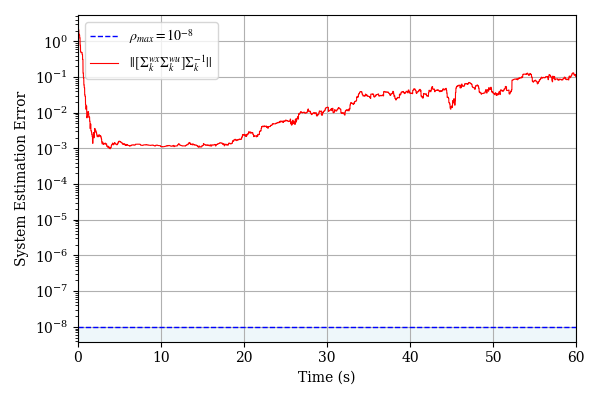
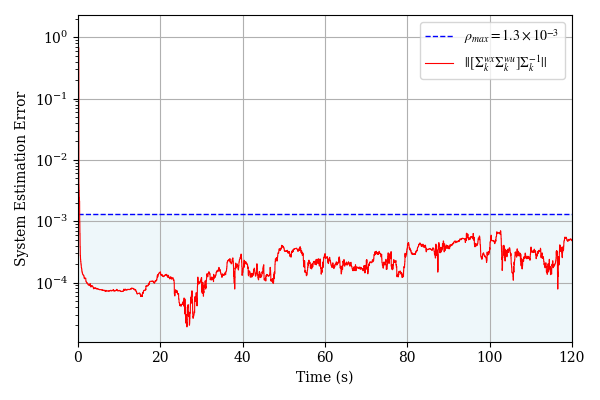
used simplified system instead

diff --git a/visualiser.py b/visualiser.py
@@ -1,5 +1,5 @@
 import numpy as np
-import tikzplotlib
+# import tikzplotlib
 import matplotlib.pyplot as plt
 
 # Written by Claude Sonnet 4.5 with minimal edits.
@@ -16,29 +16,63 @@ class Visualizer:
     A class for visualizing control system trajectories.
     Matches the original plotting style exactly.
     """
-    
-    def __init__(self, h_sim: float, T_total: float):
+
+    def __init__(self, h_sim: float, T_total: float, system=None):
         """
         Initialize the Visualizer.
-        
+
         Args:
             h_sim: Simulation time step
             T_total: Total simulation time
+            system: System object (CartPole or SimpleSystem) for context-aware plotting
         """
         self.h_sim = h_sim
         self.T_total = T_total
+        self.system = system
         setup_plot_style()
 
+    def _get_state_labels(self, n_states):
+        """
+        Returns appropriate state labels based on system type.
+
+        Args:
+            n_states: Number of states in the system
+
+        Returns:
+            List of state labels
+        """
+        if self.system is not None:
+            # Check if it's CartPole (has 4 states)
+            if hasattr(self.system, '__class__') and self.system.__class__.__name__ == 'CartPole':
+                return [
+                    r"Cart's Position (m)",
+                    r"Pole's angle (rad)",
+                    r"Cart's Velocity (m/s)",
+                    r"Pole's angular velocity (rad/s)"
+                ]
+            # Check if it's SimpleSystem (has 2 states)
+            elif hasattr(self.system, '__class__') and self.system.__class__.__name__ == 'SimpleSystem':
+                return [r"$x_1$: state 1", r"$x_2$: state 2"]
+
+        # Generic fallback for any number of states
+        return [f"$x_{i+1}$" for i in range(n_states)]
+
     def plot_state_trajectories(self, X_sim_hist, save_path='lqr_state_trajectories.png'):
-        """Plots state trajectories - matches original exactly."""
+        """Plots state trajectories - works for any system."""
         X_sim = X_sim_hist.T  # Convert to (N, n)
         t_sim = np.arange(len(X_sim)) * self.h_sim
+        n_states = X_sim.shape[1]
+
+        # Get appropriate labels based on system type
+        state_labels = self._get_state_labels(n_states)
+
+        colors = ['blue', 'red', 'green', 'orange', 'purple', 'brown']
         
         plt.figure(figsize=(6, 4))
-        plt.plot(t_sim, X_sim[:, 0], label=r"Cart's Position (m)", linewidth=0.8)
-        plt.plot(t_sim, X_sim[:, 1], label=r"Pole's angle (rad)", linewidth=0.8)
-        plt.plot(t_sim, X_sim[:, 2], label=r"Cart's Velocity (m/s)", linewidth=0.8)
-        plt.plot(t_sim, X_sim[:, 3], label=r"Pole's angular velocity (rad/s)", linewidth=0.8)
+        for i in range(n_states):
+            color = colors[i % len(colors)]
+            plt.plot(t_sim, X_sim[:, i], label=state_labels[i], linewidth=1.2, color=color)
+
         plt.ylabel('State Values')
         plt.xlabel('Time (s)')
         plt.xlim(0, self.T_total)
@@ -49,17 +83,28 @@ class Visualizer:
         print(f"State trajectories plot saved to '{save_path}'")
     
     def plot_input_trajectory(self, U_sim_hist, save_path='lqr_input_trajectory.png'):
-        """Plots input trajectory - matches original exactly."""
+        """Plots input trajectory - works for any system."""
         U_sim = U_sim_hist.T  # Convert to (N-1, m)
         m = U_sim.shape[1]
         t_sim = np.arange(len(U_sim)) * self.h_sim
-        
+
+        # Determine y-axis label based on system type
+        if self.system is not None and hasattr(self.system, '__class__'):
+            if self.system.__class__.__name__ == 'CartPole':
+                ylabel = 'Input Force (N)'
+            else:
+                ylabel = 'Control Input'
+        else:
+            ylabel = 'Control Input'
+
         plt.figure(figsize=(6, 4))
         for i in range(m):
-            plt.plot(t_sim, U_sim[:, i], label='$u$', linewidth=0.8, color='blue')
-        plt.ylabel('Input Force (N)')
+            label = f'$u_{i+1}$' if m > 1 else '$u$'
+            plt.plot(t_sim, U_sim[:, i], label=label, linewidth=1.2, color='blue')
+        plt.ylabel(ylabel)
         plt.xlabel('Time (s)')
         plt.xlim(0, self.T_total)
+        plt.legend() if m > 1 else None
         plt.grid(True)
         plt.tight_layout()
         plt.savefig(save_path)
@@ -90,7 +135,7 @@ class Visualizer:
         plt.plot(t_sim, state_norm_proposed, label='Data-driven sampled-data LQR',
                  linewidth=1.2, color='blue', alpha=0.8)
         plt.plot(t_sim, state_norm_ideal, label='Ideal LQR (Known Model)',
-                 linewidth=1.2, color='red', linestyle='--', alpha=0.8)
+                 linewidth=1.2, color='red', linestyle='--', alpha=1.0)
         plt.ylabel('State Norm')
         plt.xlabel('Time (s)')
         plt.xlim(0, self.T_total)
@@ -111,7 +156,7 @@ class Visualizer:
         plt.figure(figsize=(6, 4))
         plt.plot(t_sim_M, M_error, 
                  label=r'$|| [\Sigma^{wx}_{k}  \Sigma^{wu}_{k}]\Sigma_{k}^{-1}||$',
-                 linewidth=0.8, color='red')
+                 linewidth=1.2, color='red')
         plt.ylabel('System Estimation Error')
         plt.xlabel('Time (s)')
         plt.yscale('log')
@@ -130,14 +175,14 @@ class Visualizer:
         plt.figure(figsize=(6, 4))
 
         # Add horizontal line at rho = 1e-8 with shading below
-        rho_threshold = 1e-8
-        plt.axhline(y=rho_threshold, color='blue', linestyle='--', linewidth=1.0,
-                    label=r'$\rho_{max} = 10^{-8}$')
+        rho_threshold = 0.0025698100922393846 #0.0012996052587763633
+        plt.axhline(y=rho_threshold, color='blue', linestyle='--', linewidth=1.2,
+                    label=r'$\rho_{max} = 2.57 \times 10^{-3}$')
         plt.axhspan(plt.ylim()[0], rho_threshold, alpha=0.2, color='lightblue')
 
         plt.plot(t_sim_M, M_error,
                  label=r'$|| [\Sigma^{wx}_{k}  \Sigma^{wu}_{k}]\Sigma_{k}^{-1}||$',
-                 linewidth=0.8, color='red')
+                 linewidth=1.2, color='red')
 
         # # Find intersection point where M_error crosses rho_threshold
         # intersection_idx = np.where(M_error <= rho_threshold)[0]
@@ -147,7 +192,7 @@ class Visualizer:
         #     t_intersect = t_sim_M[idx]
 
         #     # Add vertical line at intersection
-        #     plt.axvline(x=t_intersect, color='green', linestyle=':', linewidth=1.0, alpha=0.7)
+        #     plt.axvline(x=t_intersect, color='green', linestyle=':', linewidth=1.2, alpha=0.7)
 
         #     # Add annotation
         #     plt.annotate(f't = {t_intersect:.2f}s',
@@ -177,8 +222,8 @@ class Visualizer:
 
         plt.figure(figsize=(6, 4))
         plt.plot(control_steps, times_ms, 'o-', label='Per-step time',
-                 linewidth=0.8, markersize=3, alpha=0.6)
-        plt.plot(control_steps, running_avg, 'r-', label='Running average', linewidth=1.5)
+                 linewidth=1.2, markersize=3, alpha=0.6)
+        plt.plot(control_steps, running_avg, 'r-', label='Running average', linewidth=1.2)
         plt.ylabel('Computation Time (ms)')
         plt.xlabel('Control Step')
         plt.xlim(0, len(times_ms) - 1)
@@ -270,10 +315,22 @@ class Visualizer:
 
     def plot_bound_comparison(self, bound_lhs_hist, bound_rhs_hist,
                                save_path='bound_comparison.png'):
-        
+
         bound_lhs_hist = np.array(bound_lhs_hist).flatten()
         bound_rhs_hist = np.array(bound_rhs_hist).flatten()
         t_sim = np.arange(len(bound_lhs_hist)) * self.h_sim
+
+        # Determine title based on system type
+        # if self.system is not None and hasattr(self.system, '__class__'):
+        #     system_name = self.system.__class__.__name__
+        #     if system_name == 'CartPole':
+        #         title = "Corollary 1's Inequality: Cart Pole"
+        #     elif system_name == 'SimpleSystem':
+        #         title = "Corollary 1's Inequality: Simple System"
+        #     else:
+        #         title = "Corollary 1's Inequality"
+        # else:
+        #     title = "Corollary 1's Inequality"
 
         plt.figure(figsize=(6, 4))
         plt.plot(t_sim, bound_lhs_hist, label='LHS',
@@ -286,7 +343,7 @@ class Visualizer:
         plt.yscale('log')
         plt.legend()
         plt.grid(True, alpha=0.3)
-        plt.title("Corollary 1's Inequality: Cart Pole")
+        # plt.title(title)
         plt.tight_layout()
         plt.savefig(save_path, dpi=300)
 

diff --git a/main.py b/main.py
@@ -21,8 +21,10 @@ epsilon_std = 0.1  # Exploration noise
 np.random.seed(42)
 
 # Create three separate plants for three controllers
-# plant_1 = SimpleSystem()
-plant_1 = CartPole(cart_pole_params)
+plant_1 = SimpleSystem()
+plant_2 = SimpleSystem()
+plant_3 = SimpleSystem()
+# plant_1 = CartPole(cart_pole_params)
 # plant_2 = CartPole(cart_pole_params)
 # plant_3 = CartPole(cart_pole_params)
 
@@ -37,68 +39,68 @@ Sigma_zero = 1e-4
 
 # Create controllers
 ddsd_controller = DDSDLQRController(plant_1, Wx, Wu, h_control, L, lambda_, Sigma_zero)
-# sd_controller = SDLQRController(plant_2, Wx, Wu, h_control)
-# sd_controller.compute_optimal_gain()
-# dd_controller = DDLQRController(plant_3, Wx, Wu, h_control)
+sd_controller = SDLQRController(plant_2, Wx, Wu, h_control)
+sd_controller.compute_optimal_gain()
+dd_controller = DDLQRController(plant_3, Wx, Wu, h_control)
 
 # Initial condition and simulation time
-x0 = np.array([[1.0], [0.5], [0.0], [0.0]])
-# x0 = np.array([[1.0], [0.0]])
-sim_time = 60
+# x0 = np.array([[1.0], [0.5], [0.0], [0.0]])
+x0 = np.array([[1.0], [0.0]])
+sim_time = 120
 
 # Perturbation due to unmodelled dynamics (if any)
 # Specify standard deviation for Gaussian noise (zero-mean) for each state
-w_std = np.array([[0.01], [0.01], [0.01], [0.01]])  # Standard deviation for each state component
+# w_std = np.array([[1e-10], [1e-10], [1e-10], [1e-10]])  # Standard deviation for each state component
 # w_std = np.zeros((plant_1.n, 1))
-# w_std = np.array([[0.001], [0.001]])
+w_std = np.array([[1e-4], [1e-4]])
 
 # Create simulations
 ddsd_simulation = Simulation(plant_1, ddsd_controller, x0, sim_time, h_sim, epsilon_std=epsilon_std, w_std=w_std, random_seed=42)
-# sd_simulation = Simulation(plant_2, sd_controller, x0, sim_time, h_sim, random_seed=42)
-# dd_simulation = Simulation(plant_3, dd_controller, x0, sim_time, h_sim, epsilon_std=epsilon_std, random_seed=42)
+sd_simulation = Simulation(plant_2, sd_controller, x0, sim_time, h_sim, random_seed=42)
+dd_simulation = Simulation(plant_3, dd_controller, x0, sim_time, h_sim, epsilon_std=epsilon_std, random_seed=42)
 
 # Run simulations
 print("Running Data-Driven SD-LQR simulation...")
 ddsd_states, ddsd_controls = ddsd_simulation.run()
-# print("Running SD-LQR simulation...")
-# sd_states, sd_controls = sd_simulation.run()
-# print("Running DD-LQR simulation...")
-# dd_states, dd_controls = dd_simulation.run()
-# print("Simulations complete!\n")
+print("Running SD-LQR simulation...")
+sd_states, sd_controls = sd_simulation.run()
+print("Running DD-LQR simulation...")
+dd_states, dd_controls = dd_simulation.run()
+print("Simulations complete!\n")
 
 # Create plots directory if it doesn't exist
-os.makedirs('plots', exist_ok=True)
+os.makedirs('plots/simplified', exist_ok=True)
 
-# Create visualizer
-viz = Visualizer(h_sim, sim_time)
+# Create visualizer with system information for context-aware plotting
+viz = Visualizer(h_sim, sim_time, system=plant_1)
 
 # Generate plots for DD-SDLQR
 print("Generating DD-SDLQR plots...")
-viz.plot_state_trajectories(ddsd_states, save_path='plots/dd_sdlqr_states.png')
-viz.plot_input_trajectory(ddsd_controls, save_path='plots/dd_sdlqr_input.png')
-# viz.plot_system_error(ddsd_simulation.M_error, save_path='plots/dd_sdlqr_system_error.png')
-viz.plot_rho(ddsd_simulation.M_error, save_path='plots/dd_sdlqr_rho.png')
-viz.plot_bound_comparison(ddsd_simulation.bound_lhs_hist, ddsd_simulation.bound_rhs_hist, save_path='plots/dd_sdlqr_bound_comparison.png')
+# viz.plot_state_trajectories(ddsd_states, save_path='plots/simplified/dd_sdlqr_states.png')
+# viz.plot_input_trajectory(ddsd_controls, save_path='plots/simplified/dd_sdlqr_input.png')
+# viz.plot_system_error(ddsd_simulation.M_error, save_path='plots/simplified/dd_sdlqr_system_error.png')
+# viz.plot_rho(ddsd_simulation.M_error, save_path='plots/simplified/dd_sdlqr_rho.png')
+viz.plot_bound_comparison(ddsd_simulation.bound_lhs_hist, ddsd_simulation.bound_rhs_hist, save_path='plots/simplified/dd_sdlqr_bound_comparison.png')
 
 # Generate plots for SD-LQR
 # print("\nGenerating SD-LQR plots...")
-# viz.plot_state_trajectories(sd_states, save_path='plots/sd_lqr_states.png')
-# viz.plot_input_trajectory(sd_controls, save_path='plots/sd_lqr_input.png')
+# viz.plot_state_trajectories(sd_states, save_path='plots/simplified/sd_lqr_states.png')
+# viz.plot_input_trajectory(sd_controls, save_path='plots/simplified/sd_lqr_input.png')
 
 # Generate plots for DD-LQR
 # print("\nGenerating DD-LQR plots...")
-# viz.plot_state_trajectories(dd_states, save_path='plots/dd_lqr_states.png')
-# viz.plot_input_trajectory(dd_controls, save_path='plots/dd_lqr_input.png')
-# viz.plot_system_error(dd_simulation.M_error, save_path='plots/dd_lqr_system_error.png')
+# viz.plot_state_trajectories(dd_states, save_path='plots/simplified/dd_lqr_states.png')
+# viz.plot_input_trajectory(dd_controls, save_path='plots/simplified/dd_lqr_input.png')
+# viz.plot_system_error(dd_simulation.M_error, save_path='plots/simplified/dd_lqr_system_error.png')
 
 # Generate comparison plots
 # print("\nGenerating comparison plots...")
 # viz.plot_comparison(ddsd_states, sd_states,
-#                    save_path='plots/state_norm_comparison.png')
+#                    save_path='plots/simplified/state_norm_comparison.png')
 # viz.plot_three_way_comparison(ddsd_states, dd_states, sd_states,
-#                               save_path='plots/three_way_state_norm_comparison.png')
+#                               save_path='plots/simplified/three_way_state_norm_comparison.png')
 # viz.plot_error_comparison(ddsd_simulation.M_error, dd_simulation.M_error,
-#                          save_path='plots/system_error_comparison.png')
+#                          save_path='plots/simplified/system_error_comparison.png')
 
 # Display all plots
 viz.show_all()

diff --git a/test.py b/test.py
@@ -1,0 +1,42 @@
+import numpy as np
+import matplotlib.pyplot as plt
+
+# Fixed beta and rho (rho computed from the closed-form used earlier)
+beta = 70.6
+# rho = (-2 + np.sqrt(4 + 2 / beta**2)) / 2
+
+# Sweep gamma values: start slightly above beta to avoid the singularity at gamma = beta
+# gamma_vals = np.linspace(-0.04, beta, 400)
+
+# lower bound gamma
+rho_vals = np.linspace(1e-8, 5e-8, 400)
+gamma = beta/(np.sqrt(1 + beta**(-2) - (1/(1-2*beta**2*rho_vals*(rho_vals + 2)))))  # rearranged form to avoid numerical issues
+
+print(gamma[0], gamma[-1])
+
+# # Plot gamma vs rho
+plt.figure(figsize=(8, 6))
+plt.plot(rho_vals, gamma)
+plt.xlabel('rho')
+plt.ylabel('gamma')
+plt.title('gamma vs rho')
+plt.grid(True)
+plt.show()
+
+
+rho = 1e-8
+gamma = np.linspace(1000*beta, 2000*beta, 1000)  # Sweep gamma values from just above beta to a large value
+
+# Compute alpha for each gamma
+alpha_vals = beta**2 + (1 / (1 - beta**2 / gamma**2)) * (
+	1 - beta**2 / (1 - 2 * beta**2 * rho * (rho + 2))
+)
+
+# Plot alpha vs gamma
+plt.figure(figsize=(8, 6))
+plt.plot(gamma, alpha_vals)
+plt.xlabel('gamma')
+plt.ylabel('alpha')
+plt.title('alpha vs gamma for fixed beta and rho')
+plt.grid(True)
+plt.show()

diff --git a/simulation.py b/simulation.py
@@ -75,9 +75,9 @@ class Simulation:
             J_k = self.controller.compute_true_Jk(x_k_control, u_k)
             self.J_hist.append(J_k)
 
-            beta = 70.6 #3.6570642935721427 #3 # 70.6
-            rho = 1e-16 #0.0027739304327549044 #1e-8
-            gamma = 99.84*beta # 0.1, 0.2, 0.5*beta try
+            beta = 3.060977003745023 #3.6570642935721427 #3 # 70.6
+            rho = 2.5e-3 #1.2e-3 #0.0027739304327549044 #1e-8
+            gamma = 24.98*beta #99.84*beta # 0.1, 0.2, 0.5*beta try
             alpha = beta**2 + (1/(1-beta**2/gamma**2))*(1-beta**2/(1-2*beta**2*rho*(rho+2))) # 5038.860337827362
             W_xx_k = self.controller.W_true[:self.system.n, :self.system.n]
 

diff --git a/system.py b/system.py
@@ -42,6 +42,6 @@ class CartPole(System):
 # for testing purposes
 class SimpleSystem(System):
     def __init__(self):
-        A = np.array([[0.0, 1.0], [-2.0, -3.0]])
-        B = np.array([[0.0], [1.0]])
+        A = np.array([[0.0, 3.0], [2.0, 1.0]])
+        B = np.array([[2.0], [3.0]])
         super().__init__(A, B)
